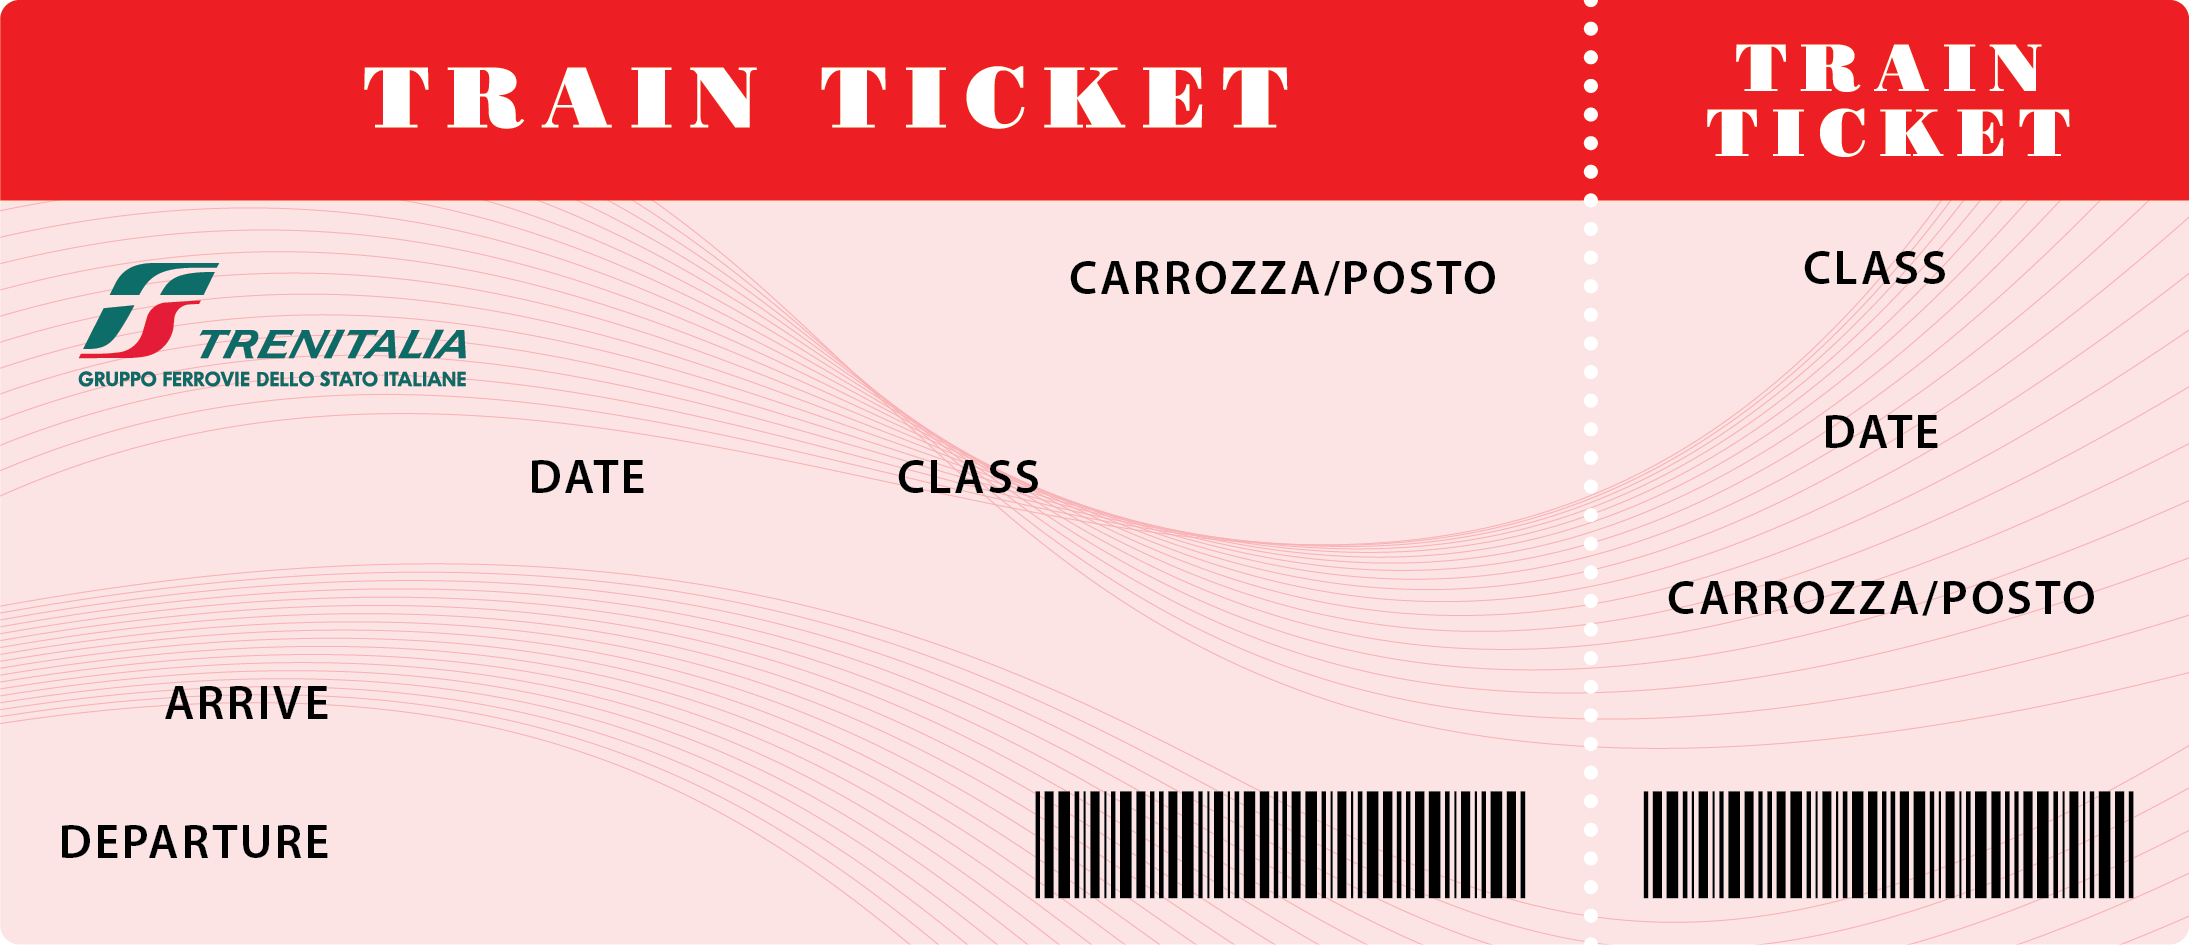
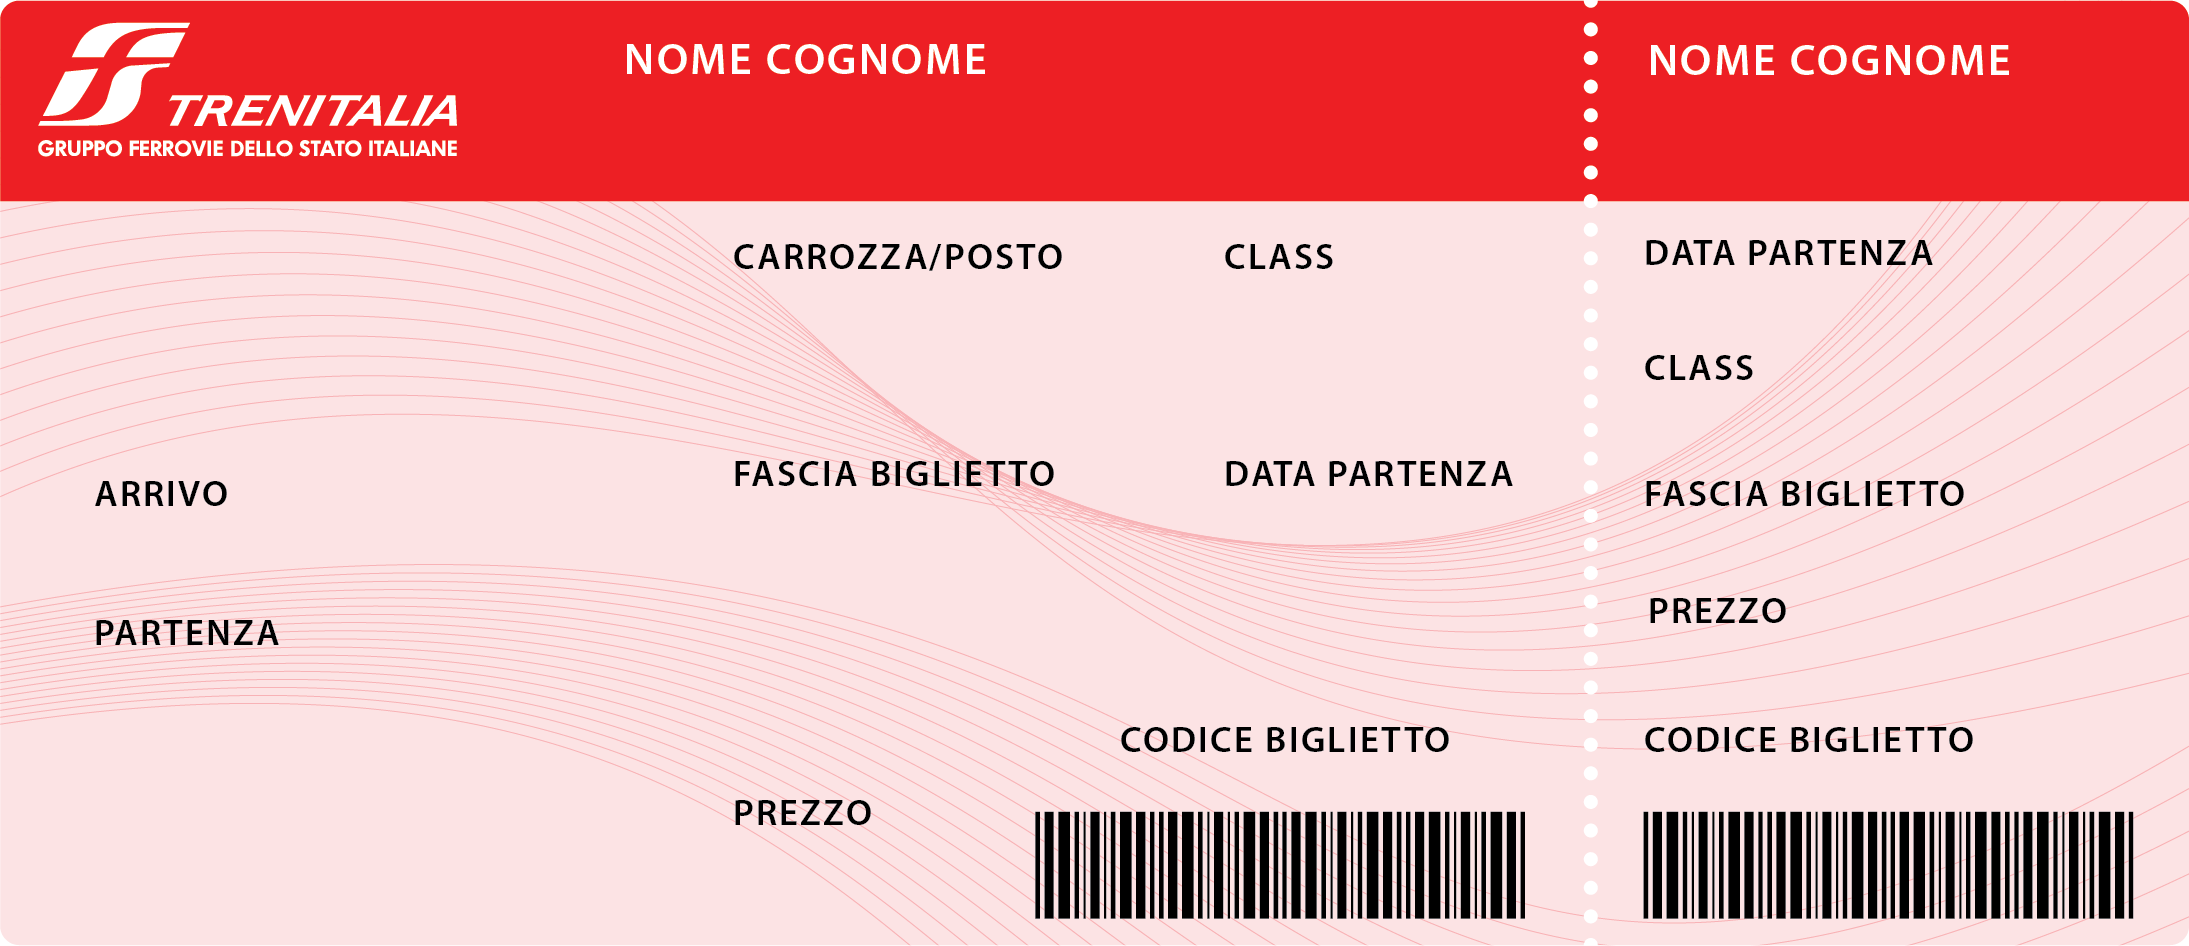
add grafica definitiva

diff --git a/css/style.css b/css/style.css
@@ -17,7 +17,7 @@ main{
     flex-direction: column;
     align-items: center;
 }
-img{
+img.logo{
     height: 90px;
     margin-bottom: 40px;
 }
@@ -72,15 +72,111 @@ button{
     margin: 10px;
 }
 
-.ticket{
+#ticket{
     text-align: center;
+    margin-top: 30px;
+    padding: 0 35px;
     width: 100%;
-    height: 850px;
+    height: 700px;
+    position: relative;
+    opacity: 0;
+    transition: opacity 0.5s;
 }
-.ticket img{
-    width: 100%;
-    height: 100%;
+#ticket.show{
+    opacity: 1;
 }
-.ticket p{
+#ticket img{
+    width: 1100px;
+}
+#ticket p{
     font-family: 'Chakra Petch', sans-serif;
+    font-weight: 400;
+    font-size: 24px;
+    color: #888;
+}
+
+/* Dati Biglietto */
+#innName{
+    position: absolute;
+    color: white !important;
+    top: 48px;
+    left: 432px;
+}
+#innName2{
+    position: absolute;
+    color: white !important;
+    top: 48px;
+    left: 948px;
+}
+
+#innEta{
+    position: absolute;
+    top: 253px;
+    left: 490px;
+}
+#innEta2{
+    position: absolute;
+    top: 256px;
+    left: 948px;
+}
+
+#innDate{
+    position: absolute;
+    top: 253px;
+    left: 737px;
+}
+#innDate2{
+    position: absolute;
+    top: 132px;
+    left: 948px;
+}
+
+#innFrom{
+    position: absolute;
+    top: 329px;
+    left: 168px;
+}
+#innDestination{
+    position: absolute;
+    top: 258px;
+    left: 168px;
+}
+
+#innClass{
+    position: absolute;
+    top: 144px;
+    left: 735px;
+}
+#innClass2{
+    position: absolute;
+    top: 192px;
+    left: 948px;
+}
+
+#innSeat{
+    position: absolute;
+    top: 144px;
+    left: 489px;
+}
+
+#innCode{
+    position: absolute;
+    top: 377px;
+    left: 730px;
+}
+#innCode2{
+    position: absolute;
+    top: 376px;
+    left: 946px;
+}
+
+#innPrice{
+    position: absolute;
+    top: 423px;
+    left: 488px;
+}
+#innPrice2{
+    position: absolute;
+    top: 315px;
+    left: 946px;
 }

diff --git a/js/main.js b/js/main.js
@@ -68,10 +68,13 @@ btnCrea.addEventListener('click',
 
                     // nome e cognome
                     document.getElementById('innName').innerHTML = getName;
+                    document.getElementById('innName2').innerHTML = getName;
                     // Categoria passeggero (ETA)
                     document.getElementById('innEta').innerHTML = getEta;
+                    document.getElementById('innEta2').innerHTML = getEta;
                     // Data Biglietto
                     document.getElementById('innDate').innerHTML = getDate;
+                    document.getElementById('innDate2').innerHTML = getDate;
                     // Partenza
                     document.getElementById('innFrom').innerHTML = getFrom;
                     // Destinazione
@@ -102,13 +105,20 @@ btnCrea.addEventListener('click',
                     };
                     // Classe
                     document.getElementById('innClass').innerHTML = getClass;
+                    document.getElementById('innClass2').innerHTML = getClass;
                     // Posto a sedere
                     document.getElementById('innSeat').innerHTML = seatNumber;
                     // Codice biglietto
                     document.getElementById('innCode').innerHTML = ticketCode;
+                    document.getElementById('innCode2').innerHTML = ticketCode;
                     // Prezzo Biglietto
                     document.getElementById('innPrice').innerHTML = finalPrice + " €";
+                    document.getElementById('innPrice2').innerHTML = finalPrice + " €";
+
+                    // Show Biglietto
+                    document.getElementById('ticket').classList.add('show');
             }
 
     }
 );
+

diff --git a/index.html b/index.html
@@ -15,7 +15,7 @@
 <body>
     
     <main>
-        <img src="img/Trenitalia_logo.svg" alt="">
+        <img src="img/Trenitalia_logo.svg" class="logo" alt="">
         <div class="form-utente">
             <div>
                 <label for="name">Nome e Cognome:</label>
@@ -67,17 +67,23 @@
             <button id="annulla">Annulla</button>
         </div>
 
-        <div class="ticket">
+        <div id="ticket">
             <img src="img/ticketBG.png" alt="bg-ticket">
             <p id="innName"></p>
+            <p id="innName2"></p>
             <p id="innEta"></p>
+            <p id="innEta2"></p>
             <p id="innDate"></p>
+            <p id="innDate2"></p>
             <p id="innFrom"></p>
             <p id="innDestination"></p>
             <p id="innClass"></p>
+            <p id="innClass2"></p>
             <p id="innSeat"></p>
             <p id="innCode"></p>
+            <p id="innCode2"></p>
             <p id="innPrice"></p>
+            <p id="innPrice2"></p>
         </div>
     </main>
 
